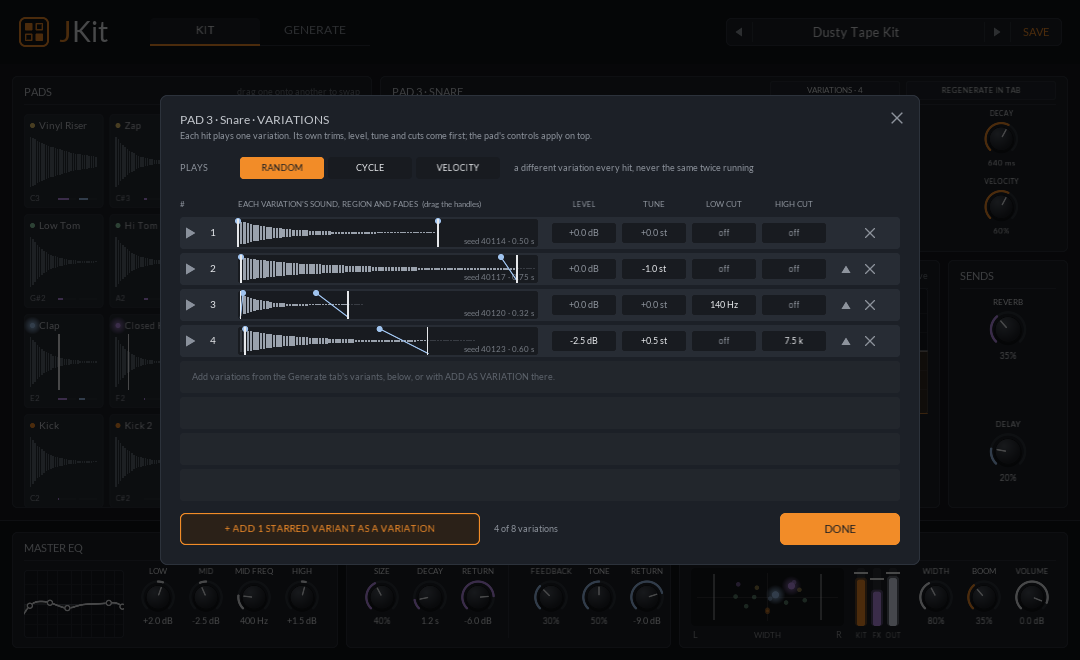
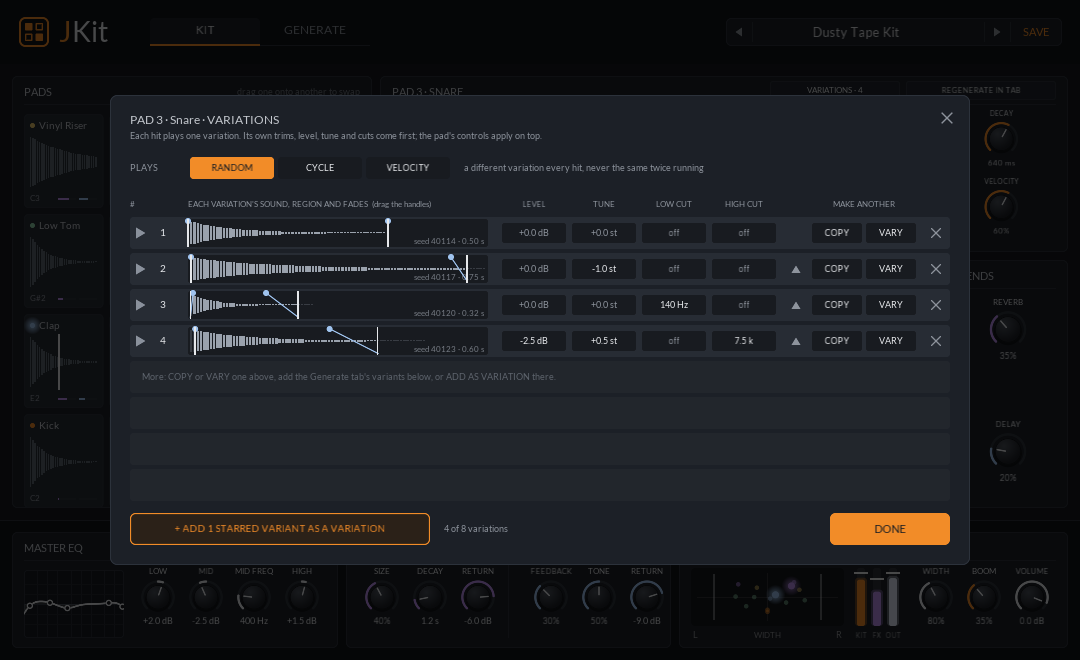
JKit 0.7.0: COPY and VARY a variation from the VARIATIONS window
Claude-Session: https://claude.ai/code/session_01FGswf6qy2VBQ1J3vmWKLYB

diff --git a/plugins/jkit/src/editor.cpp b/plugins/jkit/src/editor.cpp
@@ -2081,7 +2081,7 @@ public:
 
    visage::Bounds card() const {
       const float s = ui::designScale(*this);
-      const float w = 760 * s, h = 470 * s;
+      const float w = 860 * s, h = 470 * s;
       return {(width() - w) / 2, (height() - h) / 2, w, h};
    }
    float sc() const { return ui::designScale(*this); }
@@ -2094,7 +2094,9 @@ public:
       return {left() + (372 + col * 70) * sc(), rowY(i) + 6 * sc(), 64 * sc(), 20 * sc()};
    }
    visage::Bounds upBox(int i) const { return {left() + 656 * sc(), rowY(i) + 6 * sc(), 20 * sc(), 20 * sc()}; }
-   visage::Bounds removeBox(int i) const { return {left() + 680 * sc(), rowY(i) + 6 * sc(), 20 * sc(), 20 * sc()}; }
+   visage::Bounds copyBox(int i) const { return {left() + 682 * sc(), rowY(i) + 6 * sc(), 50 * sc(), 20 * sc()}; }
+   visage::Bounds varyBox(int i) const { return {left() + 736 * sc(), rowY(i) + 6 * sc(), 50 * sc(), 20 * sc()}; }
+   visage::Bounds removeBox(int i) const { return {left() + 796 * sc(), rowY(i) + 6 * sc(), 20 * sc(), 20 * sc()}; }
    visage::Bounds modeBox(int m) const {
       return {left() + (60 + m * 88) * sc(), card().y() + 62 * sc(), 84 * sc(), 22 * sc()};
    }
@@ -2220,6 +2222,7 @@ public:
          const visage::Bounds v = valueBox(0, col);
          c.text(kHeads[col], ui::font(8 * s), visage::Font::kCenter, v.x(), hy, v.width(), 14 * s);
       }
+      c.text("MAKE ANOTHER", ui::font(8 * s), visage::Font::kCenter, copyBox(0).x(), hy, varyBox(0).right() - copyBox(0).x(), 14 * s);
 
       const int playing = host_.padTake(pad);
       const float pos = host_.padPosition(pad);
@@ -2230,7 +2233,7 @@ public:
             c.roundedRectangle(x, ry, w, rowH(), 4 * s);
             if (i == p.count()) {
                c.setColor(kFaint);
-               c.text(p.empty() ? "No sound on this pad yet." : "Add variations from the Generate tab's variants, below, or with ADD AS VARIATION there.",
+               c.text(p.empty() ? "No sound on this pad yet." : "More: COPY or VARY one above, add the Generate tab's variants below, or ADD AS VARIATION there.",
                       ui::font(9 * s), visage::Font::kLeft, x + 12 * s, ry, w, rowH());
             }
             continue;
@@ -2298,6 +2301,18 @@ public:
             const visage::Bounds u = upBox(i);
             c.setColor(hover_.part == kUp && hover_.index == i ? t.text : t.dimText);
             c.triangle(u.x() + 5 * s, u.bottom() - 6 * s, u.right() - 5 * s, u.bottom() - 6 * s, u.x() + u.width() / 2, u.y() + 6 * s);
+         }
+         // COPY and VARY: a nudged copy now, or close relatives from the model.
+         const bool full = p.count() >= kMaxTakes;
+         for (int b2 = 0; b2 < 2; ++b2) {
+            const visage::Bounds r = b2 ? varyBox(i) : copyBox(i);
+            const bool busy = b2 && varyingRow == i;
+            const bool on = !full && (b2 == 0 || (canVary && canVary(i)));
+            const bool hot = on && hover_.part == (b2 ? kVary : kCopy) && hover_.index == i;
+            c.setColor(busy ? 0xff3a2a1a : hot ? 0xff343a44 : kWell);
+            c.roundedRectangle(r.x(), r.y(), r.width(), r.height(), 3 * s);
+            c.setColor(busy ? kOrange : on ? t.text : alpha(t.dimText, 0.5f));
+            c.text(busy ? "..." : b2 ? "VARY" : "COPY", ui::font(8.5f * s), visage::Font::kCenter, r.x(), r.y(), r.width(), r.height());
          }
          const visage::Bounds rb = removeBox(i);
          c.setColor(hover_.part == kRemove && hover_.index == i ? kOrange : t.dimText);
@@ -2373,6 +2388,19 @@ public:
                if (onChanged)
                   onChanged();
             }
+            break;
+         case kCopy:
+            if (h.index < p.count() && p.count() < kMaxTakes) {
+               p.takes.insert(p.takes.begin() + h.index + 1, nudged(p.takes[static_cast<size_t>(h.index)]));
+               host_.setPadSounds(pad, p);
+               host_.playPadTake(pad, h.index + 1);
+               if (onChanged)
+                  onChanged();
+            }
+            break;
+         case kVary:
+            if (h.index < p.count() && p.count() < kMaxTakes && canVary && canVary(h.index) && onVary)
+               onVary(pad, h.index);
             break;
          case kAdd:
             // Normalized and with their silence trimmed, as ADD TO KIT does by default; each take's
@@ -2475,9 +2503,31 @@ public:
    }
 
    std::function<void()> onChanged; // the takes changed: the panel redraws the pad
+   // VARY: whether a row's sound can be varied now (it has a prompt and nothing is generating),
+   // and starting it; `varyingRow` is the row being varied (-1 for none).
+   std::function<bool(int)> canVary;
+   std::function<void(int pad, int index)> onVary;
+   int varyingRow = -1;
+
+   // COPY: the same sound with small random nudges, so it's a variation and not a repeat: tune
+   // within a fifth of a semitone, level within 1.5 dB, the start a few ms on, and now and then a
+   // slightly darker top.
+   static Take nudged(const Take &k) {
+      std::random_device rd;
+      std::mt19937 g(rd());
+      std::uniform_real_distribution<double> u(-1.0, 1.0);
+      Take c = k;
+      c.tune = std::round((k.tune + 0.2 * u(g)) * 100) / 100;
+      c.levelDb = std::round((k.levelDb + 1.5 * u(g)) * 10) / 10;
+      const double secs = k.sample ? std::max(0.01, k.sample->seconds()) : 1.0;
+      c.start = std::clamp(k.start + std::fabs(u(g)) * 0.004 / secs, 0.0, std::max(0.0, k.end - 0.01));
+      if (u(g) > 0.3 && k.highCutHz >= 19999)
+         c.highCutHz = std::round(9000 + 6000 * std::fabs(u(g)));
+      return c.clamped();
+   }
 
 private:
-   enum Part { kNone, kOutside, kClose, kDone, kMode, kPlay, kWave, kValue, kUp, kRemove, kAdd };
+   enum Part { kNone, kOutside, kClose, kDone, kMode, kPlay, kWave, kValue, kUp, kRemove, kAdd, kCopy, kVary };
    struct Hit {
       Part part = kNone;
       int index = -1;
@@ -2509,6 +2559,10 @@ private:
                return {kValue, i, col};
          if (i > 0 && upBox(i).contains(q))
             return {kUp, i};
+         if (copyBox(i).contains(q))
+            return {kCopy, i};
+         if (varyBox(i).contains(q))
+            return {kVary, i};
          if (removeBox(i).contains(q))
             return {kRemove, i};
       }
@@ -2696,6 +2750,12 @@ public:
       kitDialog_->setVisible(false);
       takeEditor_ = &add<TakeEditor>({0, 0, kDesignWidth, kDesignHeight}, host_);
       takeEditor_->onChanged = [this] { redraw(); };
+      takeEditor_->canVary = [this](int i) {
+         const PadSounds p = host_.padSounds(takeEditor_->pad);
+         return !host_.generating() && varyPad_ < 0 && kitQueue_.empty() && !orb() && i < p.count() &&
+                p.takes[static_cast<size_t>(i)].sample && !p.takes[static_cast<size_t>(i)].sample->prompt.empty();
+      };
+      takeEditor_->onVary = [this](int pad, int i) { varyVariation(pad, i); };
       takeEditor_->setOnTop(true);
       takeEditor_->setVisible(false);
       tabs_->select(host_.page);
@@ -2735,6 +2795,24 @@ public:
       } else if (!error.empty()) {
          lastError_ = error;
          kitQueue_.clear();
+      }
+      if (varyPad_ >= 0) {
+         // VARY in VARIATIONS: the first one back is the sound itself; the rest join the pad.
+         if (std::vector<SamplePtr> sounds = host_.takeKitSounds(); !sounds.empty()) {
+            PadSounds p = host_.padSounds(varyPad_);
+            int at = std::min(varyIndex_ + 1, p.count());
+            for (size_t k = 1; k < sounds.size() && p.count() < kMaxTakes; ++k) {
+               auto s = std::make_shared<Sample>(treat(*sounds[k], Treatment{}));
+               p.takes.insert(p.takes.begin() + at++, Take{std::move(s)});
+            }
+            host_.setPadSounds(varyPad_, p);
+            host_.playPadTake(varyPad_, std::min(varyIndex_ + 1, p.count() - 1));
+            varyPad_ = -1;
+            takeEditor_->varyingRow = -1;
+         } else if (!host_.generating()) {
+            varyPad_ = -1; // stopped or failed
+            takeEditor_->varyingRow = -1;
+         }
       }
       if (!kitQueue_.empty()) {
          if (std::vector<SamplePtr> sounds = host_.takeKitSounds(); !sounds.empty()) {
@@ -3178,6 +3256,24 @@ private:
          }
       }
       redraw();
+   }
+
+   // VARY on a variation: two close relatives of its sound from the model (the pad's engine, steps
+   // and strength), added after it. Uses the sound's own prompt, role, length and seed.
+   void varyVariation(int pad, int i) {
+      const PadSounds p = host_.padSounds(pad);
+      if (i < 0 || i >= p.count() || !p.takes[static_cast<size_t>(i)].sample || host_.generating())
+         return;
+      const SamplePtr &src = p.takes[static_cast<size_t>(i)].sample;
+      const EngineStatus e = host_.engine();
+      if (e.state == EngineStatus::State::Missing || e.state == EngineStatus::State::Failed)
+         host_.installEngine();
+      varyPad_ = pad;
+      varyIndex_ = i;
+      takeEditor_->varyingRow = i;
+      const int room = kMaxTakes - p.count();
+      host_.generateOne(src->prompt, src->role, std::max(0.2, src->seconds()), src->name, std::min(2, room),
+                        src->seed ? src->seed : 1);
    }
 
    // The Kit tab's + tab: the Generate tab's selected variant, treated, as one more variation of the
@@ -4029,6 +4125,7 @@ private:
    ui::Button *regen_ = nullptr, *takes_ = nullptr;
    VariationTabs *variationTabs_ = nullptr;
    int variationTab_ = 0, variationPad_ = -1;
+   int varyPad_ = -1, varyIndex_ = 0; // VARY in VARIATIONS, while it runs
    int takesShown_ = -1;
    PadWave *wave_ = nullptr;
    ui::Dropdown *choke_ = nullptr, *pointType_ = nullptr;

diff --git a/plugins/jkit/src/plugin.cpp b/plugins/jkit/src/plugin.cpp
@@ -515,7 +515,8 @@ public:
       jobStarted_ = std::chrono::steady_clock::now();
    }
 
-   void generateOne(const std::string &prompt, int role, double seconds, const std::string &name, int takes) override {
+   void generateOne(const std::string &prompt, int role, double seconds, const std::string &name, int takes,
+                    uint32_t nearSeed) override {
       if (job_)
          return;
       gen::Request r;
@@ -528,6 +529,12 @@ public:
       r.variants = std::clamp(takes, 1, kMaxTakes);
       r.variety = r.variants > 1 ? 0.3 : 0.0;
       r.seed = 1 + std::random_device{}() % 99999;
+      if (nearSeed) {
+         // As VARY: from noise close to that sound's, the first being the sound itself.
+         r.seed = nearSeed;
+         r.variety = 0.35;
+         r.variants = std::clamp(takes + 1, 2, 8);
+      }
       jobRole_ = std::clamp(role, 0, kRoleCount - 1);
       jobPrompt_ = prompt;
       jobName_ = name;

diff --git a/plugins/jkit/src/editor.h b/plugins/jkit/src/editor.h
@@ -122,7 +122,10 @@ public:
    // prompt and length: `takes` close variations of one sound (1 for just the one). pollGeneration()
    // leaves the variants alone for it and takeKitSounds() hands them over (named and with the role
    // and prompt), once; empty until they're done.
-   virtual void generateOne(const std::string &prompt, int role, double seconds, const std::string &name, int takes = 1) = 0;
+   // `nearSeed` (not 0) makes them close relatives of the sound that seed made, as VARY does: the
+   // first one handed over is then that sound again.
+   virtual void generateOne(const std::string &prompt, int role, double seconds, const std::string &name, int takes = 1,
+                            uint32_t nearSeed = 0) = 0;
    virtual std::vector<SamplePtr> takeKitSounds() = 0;
    // Seconds the last generation took.
    virtual double lastRunSeconds() const = 0;

diff --git a/plugins/jkit/tools/screenshot.cpp b/plugins/jkit/tools/screenshot.cpp
@@ -171,7 +171,7 @@ public:
    GenSettings &gen() override { return gen_; }
    Treatment &treatment() override { return treatment_; }
    std::vector<Variant> &variants() override { return variants_; }
-   void generateOne(const std::string &, int, double, const std::string &, int) override {}
+   void generateOne(const std::string &, int, double, const std::string &, int, uint32_t) override {}
    std::vector<SamplePtr> takeKitSounds() override { return {}; }
    std::vector<Recent> &recent() override { return recent_; }
    EngineStatus engineStatus(int engine) override {

diff --git a/plugins/jkit/README.md b/plugins/jkit/README.md
@@ -361,6 +361,12 @@ right-click menu) opens them, a row each:
   along the top for its fade in and fade out. A click elsewhere on it plays the variation.
 - **LEVEL** (-24 to +12 dB), **TUNE** (-12 to +12 semitones), **LOW CUT** and **HIGH CUT** (12
   dB/octave, 20 Hz to 20 kHz, off at the ends): drag a value up or down; double-click puts it back.
+- **COPY** adds a copy of that variation right after it, nudged a little so it isn't a repeat: tune
+  within a fifth of a semitone, level within 1.5 dB, the start a few ms later, and now and then a
+  slightly darker top. It's instant.
+- **VARY** asks the model (the Generate tab's engine) for two close relatives of that variation's
+  sound, from its own prompt and seed, as the Generate tab's VARY does, and adds them right after
+  it. It takes as long as generating two sounds.
 - **▲** moves a variation up (the order matters for CYCLE and VELOCITY), **✕** removes it.
 - **+ ADD n VARIANTS AS VARIATIONS** brings the Generate tab's variants in, the starred ones if any are
   starred, normalized and with their silence trimmed.
